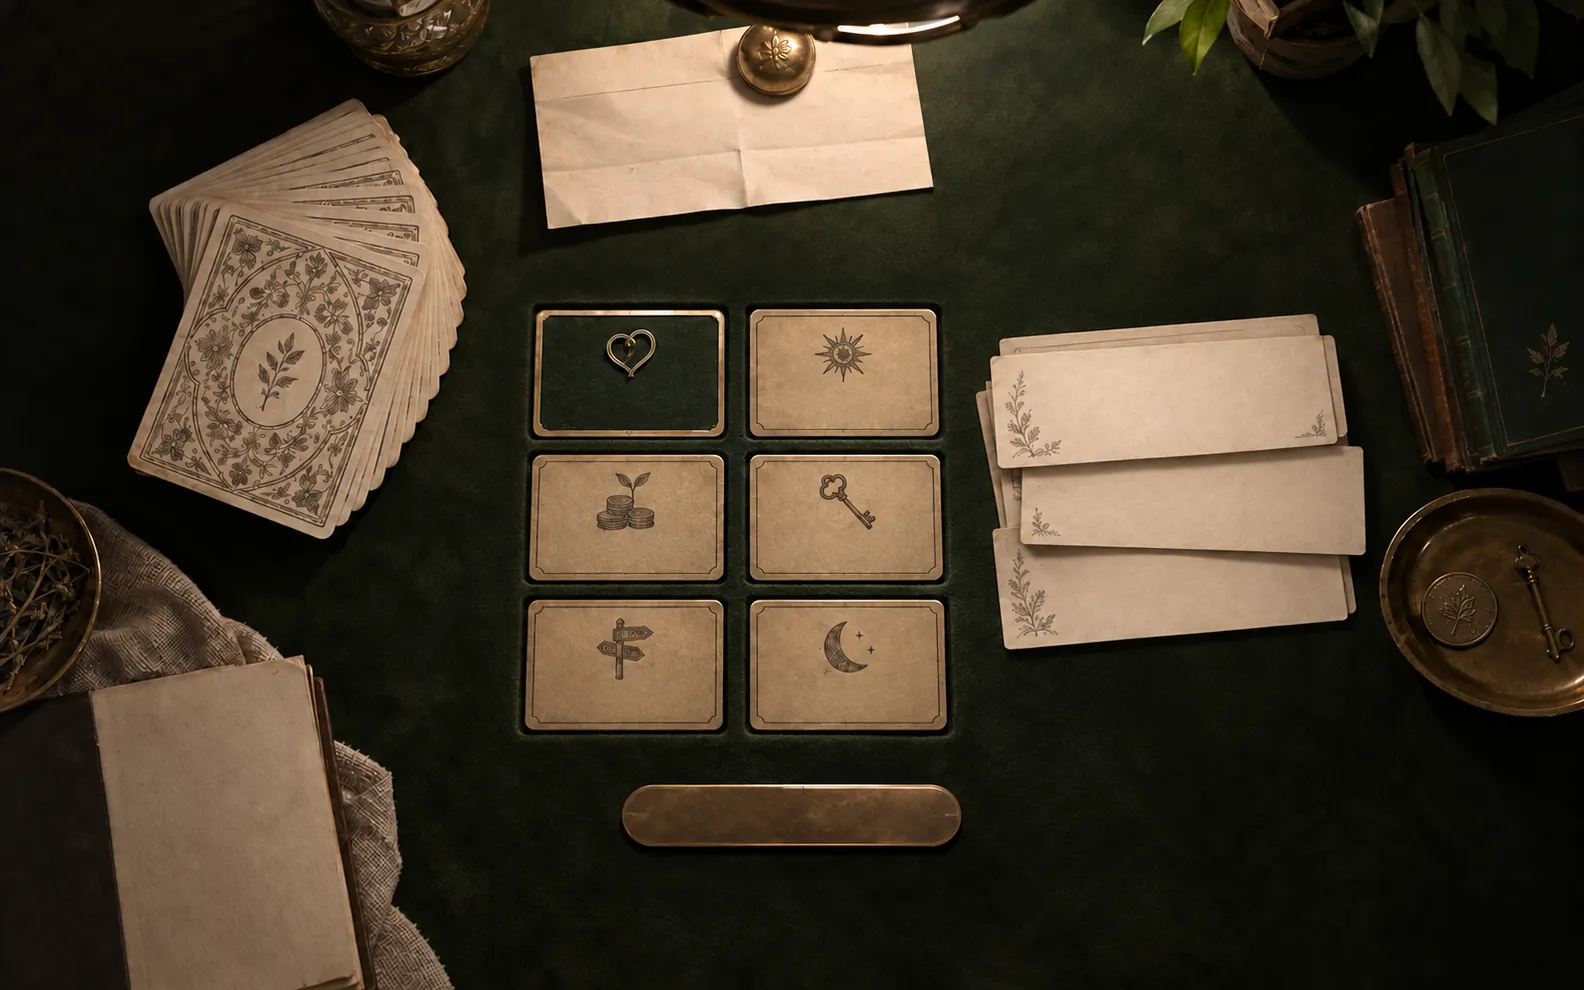
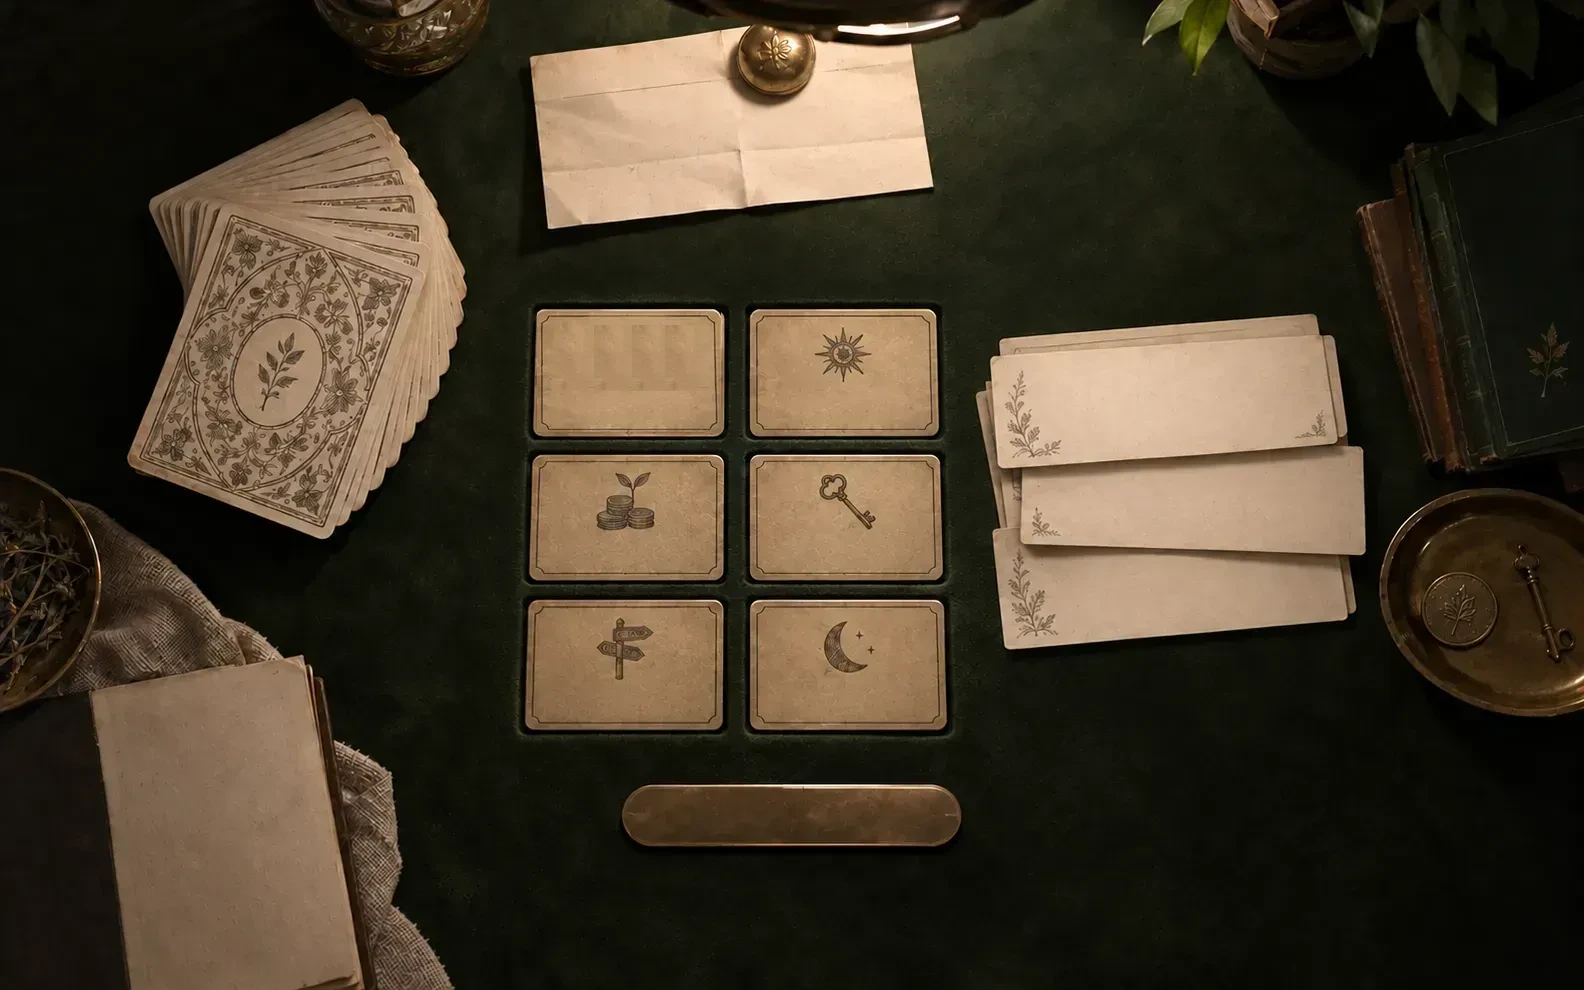
Hotfix: topic tile 1 parchment, brass selected/focus states, no native tooltips

Changed region(s): [[0.3403, 0.303, 0.464, 0.4545]]

diff --git a/app.js b/app.js
@@ -171,8 +171,8 @@ function vTopic(){const m=M();
  const tpl=()=>TPL.filter(t=>t.domain===S.topic).slice(0,3);
  const TD=m?{tiles:[[40,265,150,75],[203,265,147,75],[40,348,150,74],[203,348,147,74],[40,430,150,73],[203,430,147,73]],lbY:52,lbF:12.5,slips:[[92,537,223,34],[100,574,213,32],[108,610,205,34]],sF:11}
   :{tiles:[[489,281,167,112],[684,281,167,112],[489,413,167,112],[684,413,167,112],[489,545,167,112],[684,545,167,112]],lbY:74,lbF:14,slips:[[905,298,305,96],[930,421,276,74],[910,505,252,80]],sF:15};
- const tiles=`<div role="radiogroup" aria-label="主题">${T.map((t,i)=>{const[x,y,w,h]=TD.tiles[i];return`<button class="tile A" role="radio" aria-checked="${t.id===S.topic}" data-id="${t.id}" title="${esc(t.whisper)}" style="left:${x}px;top:${y}px;width:${w}px;height:${h}px"><span class="lb" style="top:${TD.lbY}px;font-size:${TD.lbF}px">${esc(t.label)}</span></button>`}).join('')}</div>`;
- const slips=()=>tpl().map((t,i)=>{const[x,y,w,h]=TD.slips[i];return`<button class="slip" data-t="${esc(t.template)}" style="left:${x}px;top:${y}px;width:${w}px;height:${h}px;font-size:${TD.sF}px;padding:${m?'0 8px':'0 34px 0 48px'};display:flex;align-items:center;justify-content:center" title="${esc(t.template)}"><span>${esc(t.template)}</span></button>`}).join('');
+ const tiles=`<div role="radiogroup" aria-label="主题">${T.map((t,i)=>{const[x,y,w,h]=TD.tiles[i];return`<button class="tile A" role="radio" aria-checked="${t.id===S.topic}" data-id="${t.id}" aria-description="${esc(t.whisper)}" style="left:${x}px;top:${y}px;width:${w}px;height:${h}px"><span class="lb" style="top:${TD.lbY}px;font-size:${TD.lbF}px">${esc(t.label)}</span></button>`}).join('')}</div>`;
+ const slips=()=>tpl().map((t,i)=>{const[x,y,w,h]=TD.slips[i];return`<button class="slip" data-t="${esc(t.template)}" style="left:${x}px;top:${y}px;width:${w}px;height:${h}px;font-size:${TD.sF}px;padding:${m?'0 8px':'0 34px 0 48px'};display:flex;align-items:center;justify-content:center"><span>${esc(t.template)}</span></button>`}).join('');
  const v=m?stage('02-topic',
   A(62,182,`<div class="q" id="qq" style="font-size:12.5px;line-height:1.5;text-align:center;letter-spacing:.04em">${qtext(S.q,'（还没写下问题，可以从下面借一句）')}</div>`,{w:270,h:46,st:'display:flex;align-items:center;justify-content:center;overflow:hidden'})+
   T_(195,241,'选择你关心的主题',12,{cls:'c',st:'letter-spacing:.24em'})+tiles+
@@ -182,7 +182,7 @@ function vTopic(){const m=M();
  :stage('02-topic',
   T_(528,52,'此刻 · 你的问题',11,{cls:'ink2',st:'text-shadow:none;transform:rotate(-4deg);color:#6b5a44'})+
   A(505,82,`<div class="q" id="qq" style="text-align:center">${qtext(S.q,'（还没写下问题，可以从右边借一句）')}</div>`,{w:320,h:90,st:'display:flex;align-items:center;justify-content:center;transform:rotate(-4deg);overflow:hidden'})+
-  T_(668,224,'选择一个想探问的方向',18,{cls:'c',st:'letter-spacing:.2em'})+tiles+
+  T_(668,224,'选择一个想探问的方向',18,{cls:'c',st:'letter-spacing:.2em'})+`<svg class="A" aria-hidden="true" viewBox="0 0 24 24" style="left:550px;top:296px;width:46px;height:46px;fill:none;stroke:#4a3820;stroke-width:1.6;pointer-events:none">${ICON.relationship}</svg>`+tiles+
   T_(1034,244,'借一句问法，开始倾听',17,{cls:'c',st:'letter-spacing:.16em'})+`<div id="slips">${slips()}</div>`+
   T_(1036,603,chalkText('轻点纸条，借用这个问题'),17,{cls:'chalk'})+chalkSVG('M30 30 Q8 24 4 2 M0 9 L4 1 L10 7',80,975,578,40,34,1000)+
   A(907,100,'好的问题，<br>会带你走向更真实的自己。',{cls:'t',st:'font-size:12.5px;line-height:1.95;letter-spacing:.12em'})+A(1178,156,'—— &nbsp;寂境 &nbsp;Stillrealm',{cls:'t',st:'transform:translateX(-100%);font-size:12px'})+

diff --git a/style.css b/style.css
@@ -135,3 +135,12 @@ select.sel option{background:#1b1a14}
 .slip span{display:-webkit-box;-webkit-box-orient:vertical;-webkit-line-clamp:2;overflow:hidden}
 .m .slip span{-webkit-line-clamp:1}
 #chrome{z-index:5}
+
+button,a,input,textarea,select,[tabindex]{outline:none}
+:focus-visible{outline:none!important;box-shadow:0 0 0 2px #14100a,0 0 0 3.5px #d9b36a!important;border-radius:4px}
+.tile:focus-visible{box-shadow:inset 0 0 0 2px #d9b36a,0 0 0 2px #14100a,0 0 0 3.5px #d9b36a!important;border-radius:6px}
+.tile{background:none!important}
+.tile:hover{box-shadow:inset 0 0 0 1px rgba(217,179,106,.55)}
+.tile[aria-checked=true]{box-shadow:inset 0 0 0 2px #c9a35c,inset 0 0 0 3px rgba(60,40,15,.5),0 3px 10px rgba(0,0,0,.55)}
+.tile[aria-checked=true] .lb{color:#2b2116!important;text-decoration-color:#8a6a35}
+.m .tile[aria-checked=true] .lb{color:#f0dcae!important}
